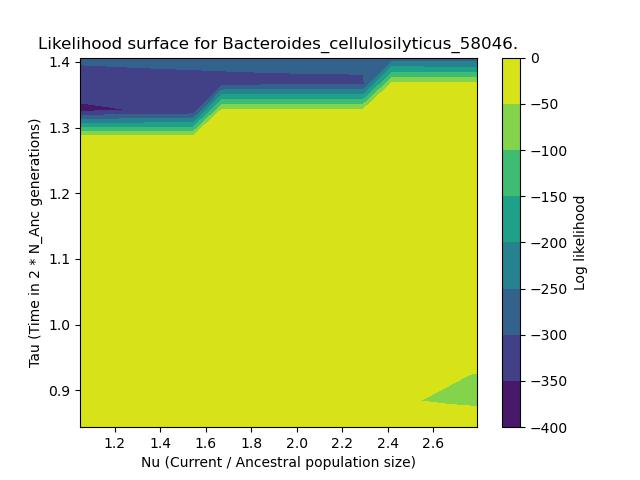
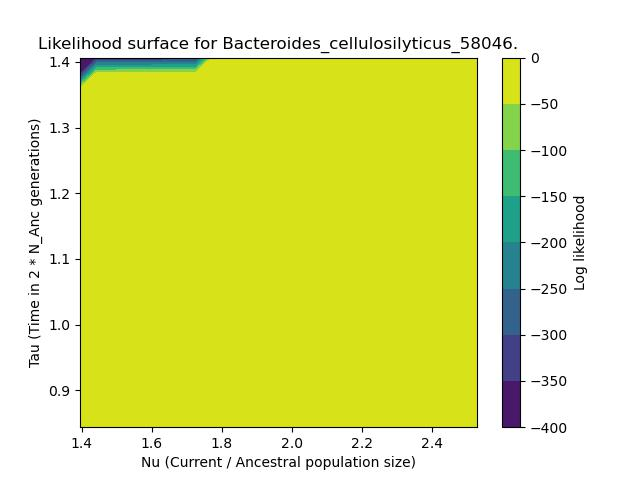
B. cell

diff --git a/Scripts/plot_likelihood.py b/Scripts/plot_likelihood.py
@@ -464,9 +464,9 @@ class PlotLikelihood():
                 x = input_nu  # Initial x value
                 y = input_tau  # Initial y value
 
-                npts = 15
+                npts = 25
 
-                x_range = numpy.linspace(x * 0.6, x * 1.6, npts)
+                x_range = numpy.linspace(x * 0.8, x * 1.45, npts)
                 # x_range = numpy.linspace(1.6, 2.4, npts)
                 y_range = numpy.linspace(y * 0.75, y * 1.25, npts)
                 # y_range = numpy.linspace(0.98, 1.04, npts)
